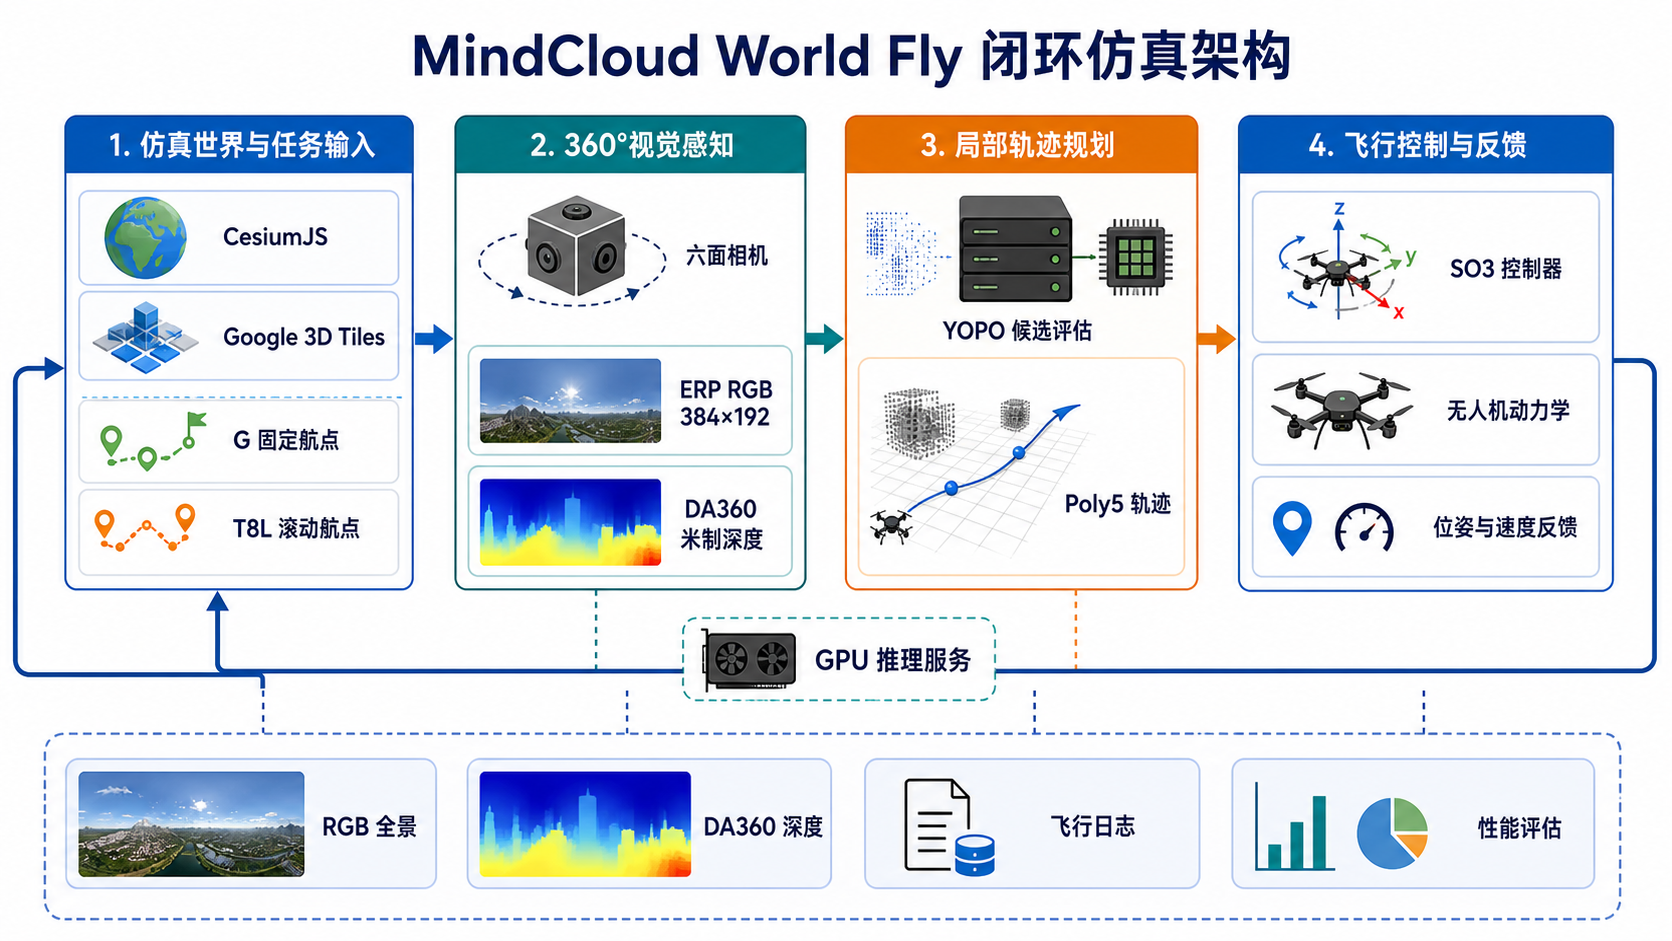
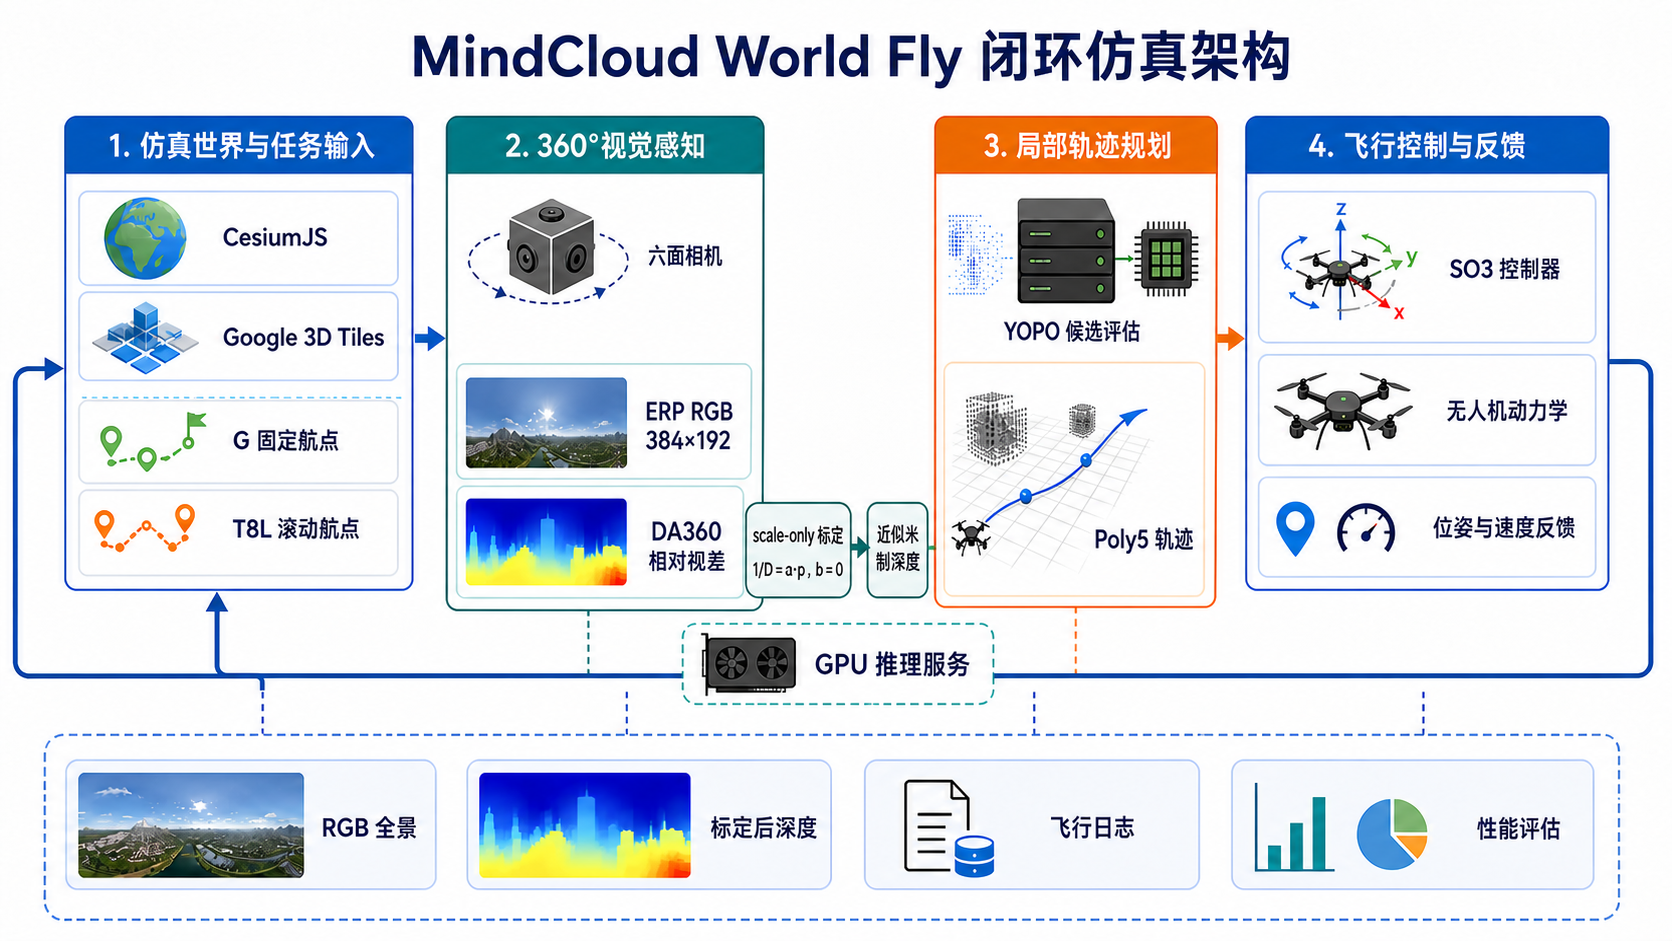
fix: enforce DA360 scale-only calibration

diff --git a/scripts/fit_da360_metric.py b/scripts/fit_da360_metric.py
@@ -1,10 +1,12 @@
 #!/usr/bin/env python3
 """
-Offline inverse-depth metric fitting: 1/z = a * pred_disp + b.
+Offline DA360 scale-only metric fitting: 1/z = a * pred_disp, b = 0.
 
 Takes DA360 raw pred_disp (.npz from /depth/raw) and Cesium sparse anchors
-(.json), fits scale-only and scale+shift models via robust regression, and
-outputs metric-depth arrays together with a validation report.
+(.json), deploys a scale-only model via robust regression, and outputs
+metric-depth arrays together with a validation report.  The scale+shift fit is
+retained only as a diagnostic: DA360 removes the additive disparity shift
+internally, so an external non-zero b must never enter runtime calibration.
 
 Usage:
     python scripts/fit_da360_metric.py \\
@@ -997,19 +999,24 @@ def run_fitting(data, output_dir):
 
     scale_metrics = validation["scale_only"]
     shift_metrics = validation["scale_shift"]
-    scale_error = scale_metrics["median_abs_rel"]
-    shift_error = shift_metrics["median_abs_rel"]
-    selected_model = (
-        "scale_only"
-        if scale_error is not None and shift_error is not None and scale_error - shift_error < 0.01
-        else "scale_shift"
-    )
-    selected_a = final_a_scale if selected_model == "scale_only" else final_a_shift
-    selected_b = 0.0 if selected_model == "scale_only" else final_b_shift
+
+    # DA360's public prediction is scale-invariant disparity after the model's
+    # learned internal shift correction.  The affine fit remains useful only
+    # for diagnosing an input/data/model-contract mismatch; deployment must not
+    # reintroduce a disparity shift.
+    selected_model = "scale_only"
+    selected_a = final_a_scale
+    selected_b = 0.0
 
     report = {
         "success": True,
-        "relation": "inverse_depth_1_per_m = a * pred_disp + b",
+        "relation": "inverse_depth_1_per_m = a * pred_disp",
+        "deployment_contract": {
+            "model": "scale_only",
+            "relation": "inverse_depth_1_per_m = a * pred_disp",
+            "b": 0.0,
+            "scale_shift_role": "diagnostic_only",
+        },
         "output_units": "metres",
         "pixel_sampling": "integer-pixel-centres; resolution-scaled; horizontal-wrap bilinear",
         "robust_loss": "huber-once",
@@ -1039,6 +1046,7 @@ def run_fitting(data, output_dir):
             "near_10m": validation["scale_only_near_10m"],
         },
         "scale_shift": {
+            "diagnostic_only": True,
             "a": float(final_a_shift),
             "b": float(final_b_shift),
             **shift_metrics,
@@ -1048,7 +1056,7 @@ def run_fitting(data, output_dir):
         "calibration": {
             "a": float(selected_a),
             "b": float(selected_b),
-            "relation": "inverse_depth_1_per_m = a * pred_disp + b",
+            "relation": "inverse_depth_1_per_m = a * pred_disp",
         },
     }
 
@@ -1060,7 +1068,7 @@ def run_fitting(data, output_dir):
     inverse_shift = final_a_shift * pred_disp + final_b_shift
     depth_scale, valid_scale = inverse_depth_to_metric_depth(inverse_scale, raw_valid)
     depth_shift, valid_shift = inverse_depth_to_metric_depth(inverse_shift, raw_valid)
-    selected_valid = valid_scale if selected_model == "scale_only" else valid_shift
+    selected_valid = valid_scale
 
     np.save(os.path.join(output_dir, "metric_depth_scale.npy"), depth_scale)
     np.save(os.path.join(output_dir, "metric_depth_shift.npy"), depth_shift)
@@ -1191,7 +1199,7 @@ def run_fitting(data, output_dir):
         "input": raw_contract if inference_contract_complete else None,
         "projection": anchor_contract.get("projection") if inference_contract_complete else None,
         "selected_model": selected_model,
-        "relation": "inverse_depth_1_per_m = a * pred_disp + b",
+        "relation": "inverse_depth_1_per_m = a * pred_disp",
         "fit_report": "fit_report.json",
         "acceptance": report["acceptance"],
         "collection": report["collection"],

diff --git a/scripts/da360_server.py b/scripts/da360_server.py
@@ -713,9 +713,11 @@ class DA360Runner:
     def infer_metric(self, image, projection_config=None):
         """Run DA360 inference and convert raw pred_disp to metric depth.
 
-        使用启动时验证并冻结的线性标定参数 1/z = a·pred_disp + b，
-        跳过 per-frame min-归一化步骤。没有有效标定时直接失败，避免
-        把相对深度静默冒充为米制深度。
+        DA360 已在网络内部消除 disparity 的全局平移不确定性，运行时
+        只使用启动时验证并冻结的尺度参数 1/z = a·pred_disp（b=0），
+        跳过 per-frame min-归一化步骤。外部非零偏移会重新引入平移项
+        并扭曲相对几何，因此加载器会拒绝它。没有有效标定时直接失败，
+        避免把相对深度静默冒充为米制深度。
 
         Returns
         -------
@@ -749,8 +751,8 @@ class DA360Runner:
                 )
         raw = self.infer_raw(image)
         pred_disp = raw["pred_disp"]
-        a, b = calib["a"], calib["b"]
-        inverse_depth = a * pred_disp + b
+        a = calib["a"]
+        inverse_depth = a * pred_disp
         valid = np.isfinite(inverse_depth) & (inverse_depth > 1e-6)
         metric = np.full(pred_disp.shape, np.nan, dtype=np.float32)
         metric[valid] = np.clip(
@@ -819,17 +821,30 @@ class DA360Runner:
             provenance_accepted = automatic_gate_passed or manual_accepted
             if accuracy_accepted is not provenance_accepted:
                 raise ValueError("calibration acceptance statuses disagree")
-            expected_relation = "inverse_depth_1_per_m = a * pred_disp + b"
-            if calib.get("relation") != expected_relation:
+            scale_only_relation = "inverse_depth_1_per_m = a * pred_disp"
+            legacy_zero_offset_relation = "inverse_depth_1_per_m = a * pred_disp + b"
+            if calib.get("relation") not in {
+                scale_only_relation,
+                legacy_zero_offset_relation,
+            }:
                 raise ValueError("calibration inverse-depth relation is missing or incompatible")
             a = float(calib["a"])
-            b = float(calib["b"])
+            b = float(calib.get("b", 0.0))
             min_depth = float(calib.get("depth_min_m", 0.04))
             max_depth = float(calib.get("depth_max_m", 20.0))
             if not all(math.isfinite(value) for value in (a, b, min_depth, max_depth)):
                 raise ValueError("a, b and depth limits must be finite")
             if a <= 0:
                 raise ValueError("calibration slope a must be positive")
+            if abs(b) > 1e-12:
+                raise ValueError(
+                    "DA360 scale-only calibration requires b == 0; "
+                    "a non-zero external disparity shift is not deployable"
+                )
+            if calib.get("selected_model") not in (None, "scale_only"):
+                raise ValueError(
+                    "DA360 metric calibration selected_model must be scale_only"
+                )
             if min_depth <= 0 or max_depth <= min_depth:
                 raise ValueError("calibration depth range must satisfy 0 < min < max")
 

diff --git a/tests/test_backend_contract.py b/tests/test_backend_contract.py
@@ -941,7 +941,7 @@ class BackendContractTests(unittest.TestCase):
             "schema_version": 1,
             "accepted": True,
             "a": 1.25,
-            "b": 0.05,
+            "b": 0.0,
             "depth_min_m": 0.5,
             "depth_max_m": 20.0,
             "model": runner.model_name,
@@ -971,8 +971,8 @@ class BackendContractTests(unittest.TestCase):
                 "jpegQuality": 0.74,
                 "uploadScale": 0.5,
             },
-            "selected_model": "scale_shift",
-            "relation": "inverse_depth_1_per_m = a * pred_disp + b",
+            "selected_model": "scale_only",
+            "relation": "inverse_depth_1_per_m = a * pred_disp",
             "acceptance": {"passed": True},
         }
         with tempfile.TemporaryDirectory() as directory:
@@ -982,12 +982,33 @@ class BackendContractTests(unittest.TestCase):
             with patch.dict(os.environ, {"DA360_DEPTH_CALIB_PATH": str(path)}):
                 loaded = runner._load_depth_calibration()
             self.assertEqual(loaded["a"], 1.25)
+            self.assertEqual(loaded["b"], 0.0)
             self.assertEqual(loaded["id"], "depth_calibration-v1-DA360_fake-16x8")
             self.assertIs(loaded["accuracy_accepted"], True)
             self.assertIs(loaded["automatic_accuracy_gate_passed"], True)
             self.assertEqual(loaded["acceptance_method"], "automatic")
             self.assertEqual(loaded["acceptance_scope"], "accuracy-gates")
             self.assertEqual((loaded["request_width"], loaded["request_height"]), (16, 8))
+
+            legacy_zero_offset = dict(
+                calibration,
+                relation="inverse_depth_1_per_m = a * pred_disp + b",
+            )
+            path.write_text(json.dumps(legacy_zero_offset), encoding="utf-8")
+            with patch.dict(os.environ, {"DA360_DEPTH_CALIB_PATH": str(path)}):
+                self.assertEqual(runner._load_depth_calibration()["b"], 0.0)
+
+            shifted = dict(calibration, b=0.05)
+            path.write_text(json.dumps(shifted), encoding="utf-8")
+            with patch.dict(os.environ, {"DA360_DEPTH_CALIB_PATH": str(path)}):
+                with self.assertRaisesRegex(RuntimeError, "b == 0"):
+                    runner._load_depth_calibration()
+
+            wrong_model = dict(calibration, selected_model="scale_shift")
+            path.write_text(json.dumps(wrong_model), encoding="utf-8")
+            with patch.dict(os.environ, {"DA360_DEPTH_CALIB_PATH": str(path)}):
+                with self.assertRaisesRegex(RuntimeError, "selected_model must be scale_only"):
+                    runner._load_depth_calibration()
 
             runner.calibration = loaded
             infer_calls = []

diff --git a/tests/test_fit_da360_metric.py b/tests/test_fit_da360_metric.py
@@ -21,7 +21,7 @@ from scripts.fit_da360_metric import (
 
 
 TRUE_A = 2.25
-TRUE_B = 0.12
+TRUE_B = 0.0
 UNIT_PRED_DISP = "raw disparity (inverse depth), NOT per-frame normalized"
 PANORAMA_FACES = ("front", "right", "back", "left", "up", "down")
 
@@ -519,7 +519,7 @@ def test_local_pose_deduplication_is_scoped_to_location(tmp_path):
     assert combined["location_capture_counts"] == {"site-A": 3, "site-B": 3}
 
 
-def test_known_scale_shift_all_locations_pass_and_candidate_is_bound(tmp_path):
+def test_known_scale_only_all_locations_pass_and_candidate_is_bound(tmp_path):
     data = _four_location_dataset(tmp_path / "captures")
     output_dir = tmp_path / "fit"
     report = run_fitting(data, output_dir)
@@ -530,8 +530,11 @@ def test_known_scale_shift_all_locations_pass_and_candidate_is_bound(tmp_path):
     assert len(report["validation"]["folds"]) == 4
     assert all(item["passed"] for item in report["acceptance"]["per_location"].values())
     assert np.isclose(report["scale_shift"]["a"], TRUE_A, rtol=1e-5)
-    assert np.isclose(report["scale_shift"]["b"], TRUE_B, rtol=1e-5)
-    assert report["selected_model"] == "scale_shift"
+    assert np.isclose(report["scale_shift"]["b"], TRUE_B, atol=1e-6)
+    assert report["scale_shift"]["diagnostic_only"] is True
+    assert report["selected_model"] == "scale_only"
+    assert report["relation"] == "inverse_depth_1_per_m = a * pred_disp"
+    assert report["deployment_contract"]["b"] == pytest.approx(0.0)
 
     calibration = json.loads((output_dir / "depth_calibration.json").read_text())
     assert calibration["accepted"] is True
@@ -541,6 +544,9 @@ def test_known_scale_shift_all_locations_pass_and_candidate_is_bound(tmp_path):
     assert calibration["input"]["request_width"] == 8
     assert calibration["projection"]["jpegQuality"] == 0.74
     assert calibration["projection"]["rgbWidth"] == 8
+    assert calibration["selected_model"] == "scale_only"
+    assert calibration["relation"] == "inverse_depth_1_per_m = a * pred_disp"
+    assert calibration["b"] == pytest.approx(0.0)
     assert "dataset_fingerprint_sha256" not in calibration
 
 

diff --git a/docs/ARCHITECTURE.zh-CN.md b/docs/ARCHITECTURE.zh-CN.md
@@ -10,7 +10,8 @@ flowchart LR
     WORLD[CesiumJS 仿真世界\nGoogle 3D Tiles]
     CAMERA[六面相机采集]
     ERP[ERP RGB\n384×192]
-    DA360[DA360\n米制深度]
+    DA360[DA360\nscale-invariant 相对视差]
+    SCALE[scale-only 标定\n1/D = a·p，b = 0]
     YOPO[YOPO\n候选评估]
     POLY5[Poly5 轨迹]
     SO3[SO3 控制器]
@@ -18,10 +19,10 @@ flowchart LR
     LOG[诊断支路\nRGB / 深度 / 日志 / 性能]
 
     TASK --> WORLD
-    WORLD --> CAMERA --> ERP --> DA360 --> YOPO --> POLY5 --> SO3 --> UAV
+    WORLD --> CAMERA --> ERP --> DA360 --> SCALE --> YOPO --> POLY5 --> SO3 --> UAV
     UAV -->|位姿与速度反馈| WORLD
     ERP -.-> LOG
-    DA360 -.-> LOG
+    SCALE -.-> LOG
     POLY5 -.-> LOG
     UAV -.-> LOG
 ~~~
@@ -32,12 +33,17 @@ flowchart LR
 |---|---|---|
 | Cesium 主视图 | Demo 画面、任务交互、目标和路径显示 | 不直接生成 YOPO 轨迹 |
 | 隐藏六面相机 | 从当前仿真状态采集六个方向并投影为 ERP | 不执行深度估计 |
-| DA360 服务 | 从 ERP RGB 估计深度 | 不决定最终控制输入 |
+| DA360 服务 | 从 ERP RGB 估计已消除平移不确定性的 scale-invariant 相对视差 | 不直接承诺米制尺度 |
+| Scale-only 标定 | 以 `1/D=a·p`、固定 `b=0` 转换为仿真中的近似米制深度 | 不引入外部 disparity 偏移 |
 | YOPO 服务 | 根据深度、目标和状态选择局部 Poly5 轨迹 | 不直接推进无人机物理状态 |
 | SO3 控制器 | 跟踪轨迹并输出姿态/推力控制 | 不替代 YOPO 避障决策 |
 | 诊断预览 | 展示缓存 RGB、深度和性能数据 | 预览频率不等于规划频率 |
 
 ## 感知帧与快速重规划
+
+### DA360 米制尺度边界
+
+DA360 在网络内部估计并消除了 disparity 的全局平移项，公开输出仍保留尺度不确定性。因此运行时只允许 `1/D=a·p` 的 scale-only 标定，外部偏移参数固定为 `b=0`。`a·p+b` 只可作为离线诊断，用来暴露输入、数据或模型契约问题，不得写入部署配置。当前 `a` 来自仿真真值到仿真预测的标定，是 sim-to-sim 近似尺度，不代表跨场景、跨相机天然成立的真实传感器标定。
 
 每次请求必须把 RGB、采集时刻的位姿/速度、目标身份和 session 身份绑定，避免旧图像与新状态错配。这种绑定保证单个请求的一致性，但不锁死后续感知：latest-slot 会持续接受更新观测，一个请求完成后立即使用最新可用帧进行下一次重规划。
 

diff --git a/docs/implementation-status-v2.md b/docs/implementation-status-v2.md
@@ -94,6 +94,7 @@
 - 4 地点×3 captures、共 12 组四件套和 LOLO 报告已完成：`../experiment_data/metric_fit-lolo-20260810-12capture/fit_report.json`。1536 anchors 中 1140 有效（74.22%），833 个在 0.5–20m。
 - 数据完整性通过，但四个留出地点的 median/p90 AbsRel、10m 内 p90 误差分别为：site-a 0.399/0.544/3.326m，site-b 0.366/2.125/5.959m，site-c 0.383/0.443/3.545m，site-d 0.313/0.982/4.051m，均未过精度门禁。
 - `success=true` 只代表 fitter 完成；自动 `acceptance.passed=false`。全量 scale-only 结果 `a=0.0011892812185910185,b=0` 的 median/p90 AbsRel=0.376/1.507、近距 p90=4.054m。项目负责人于 2026-08-11 根据实时深度效果将其人工接受为 sim-to-sim 基线；`../experiment_data/depth_calibration.json` 保留失败的自动报告并以 `manual_acceptance` 记录该决定。
+- DA360 已在模型内部消除 disparity shift；部署公式固定为 `1/D_metric=a*pred_disp`，并强制 `b=0`。scale+shift 只保留为离线诊断，不能被选中、导出或用于运行时推理。
 - 476×238→1036×518 pilot 在相同 134×67 source JPEG 下从 25.6ms 增至 151.9ms（5.94×），且 site-a 显著变差；不得提升 live DA360 输入到 1036×518。
 - 尚未完成 metric 驱动的真实低空闭环或 Cesium truth parity；人工批准仅覆盖 sim-to-sim，不得写成自动 LOLO 精度门禁通过或真实传感器精度验收。
 

diff --git a/docs/da360-metric-scale-diagnosis.md b/docs/da360-metric-scale-diagnosis.md
@@ -1,15 +1,27 @@
-# DA360 metric-scale diagnosis and simulator A/B protocol
+# DA360 米制尺度诊断与 scale-only 部署备忘
+
+## 已确认的部署契约
+
+DA360 通过网络内部学习的全局 shift 修正，将底层 affine-invariant disparity 转换为 scale-invariant disparity；公开输出仍只存在尺度不确定性。因此本项目正式运行关系固定为：
+
+```text
+1 / D_metric = a * pred_disp
+b = 0
+```
+
+`a * pred_disp + b` 的仿射拟合仅保留为离线诊断。如果非零 `b` 明显改善结果，应判定为输入预处理、数据、模型版本或评估契约存在偏差，而不是把 `b` 发布到运行时。标定脚本必须始终选择 `scale_only`，服务端必须拒绝任何非零 `b`。
 
 ## Corrected conclusion
 
-The 12 audited captures reject one fixed cross-scene mapping
+The 12 audited captures reject one fixed cross-scene scale-only mapping
 
 ```text
-inverse_depth = a * pred_disp + b
+inverse_depth = a * pred_disp
 ```
 
 for the current low-resolution input pipeline. They do **not** prove that the
-captures were unusable, that DA360 cannot support an online scale cue, or that
+captures were unusable, justify adding an external disparity shift, prove that
+DA360 cannot support an online scale cue, or show that
 panoramic metric depth is impossible.
 
 DA360's documented output is *scale-invariant disparity*: the image-dependent
